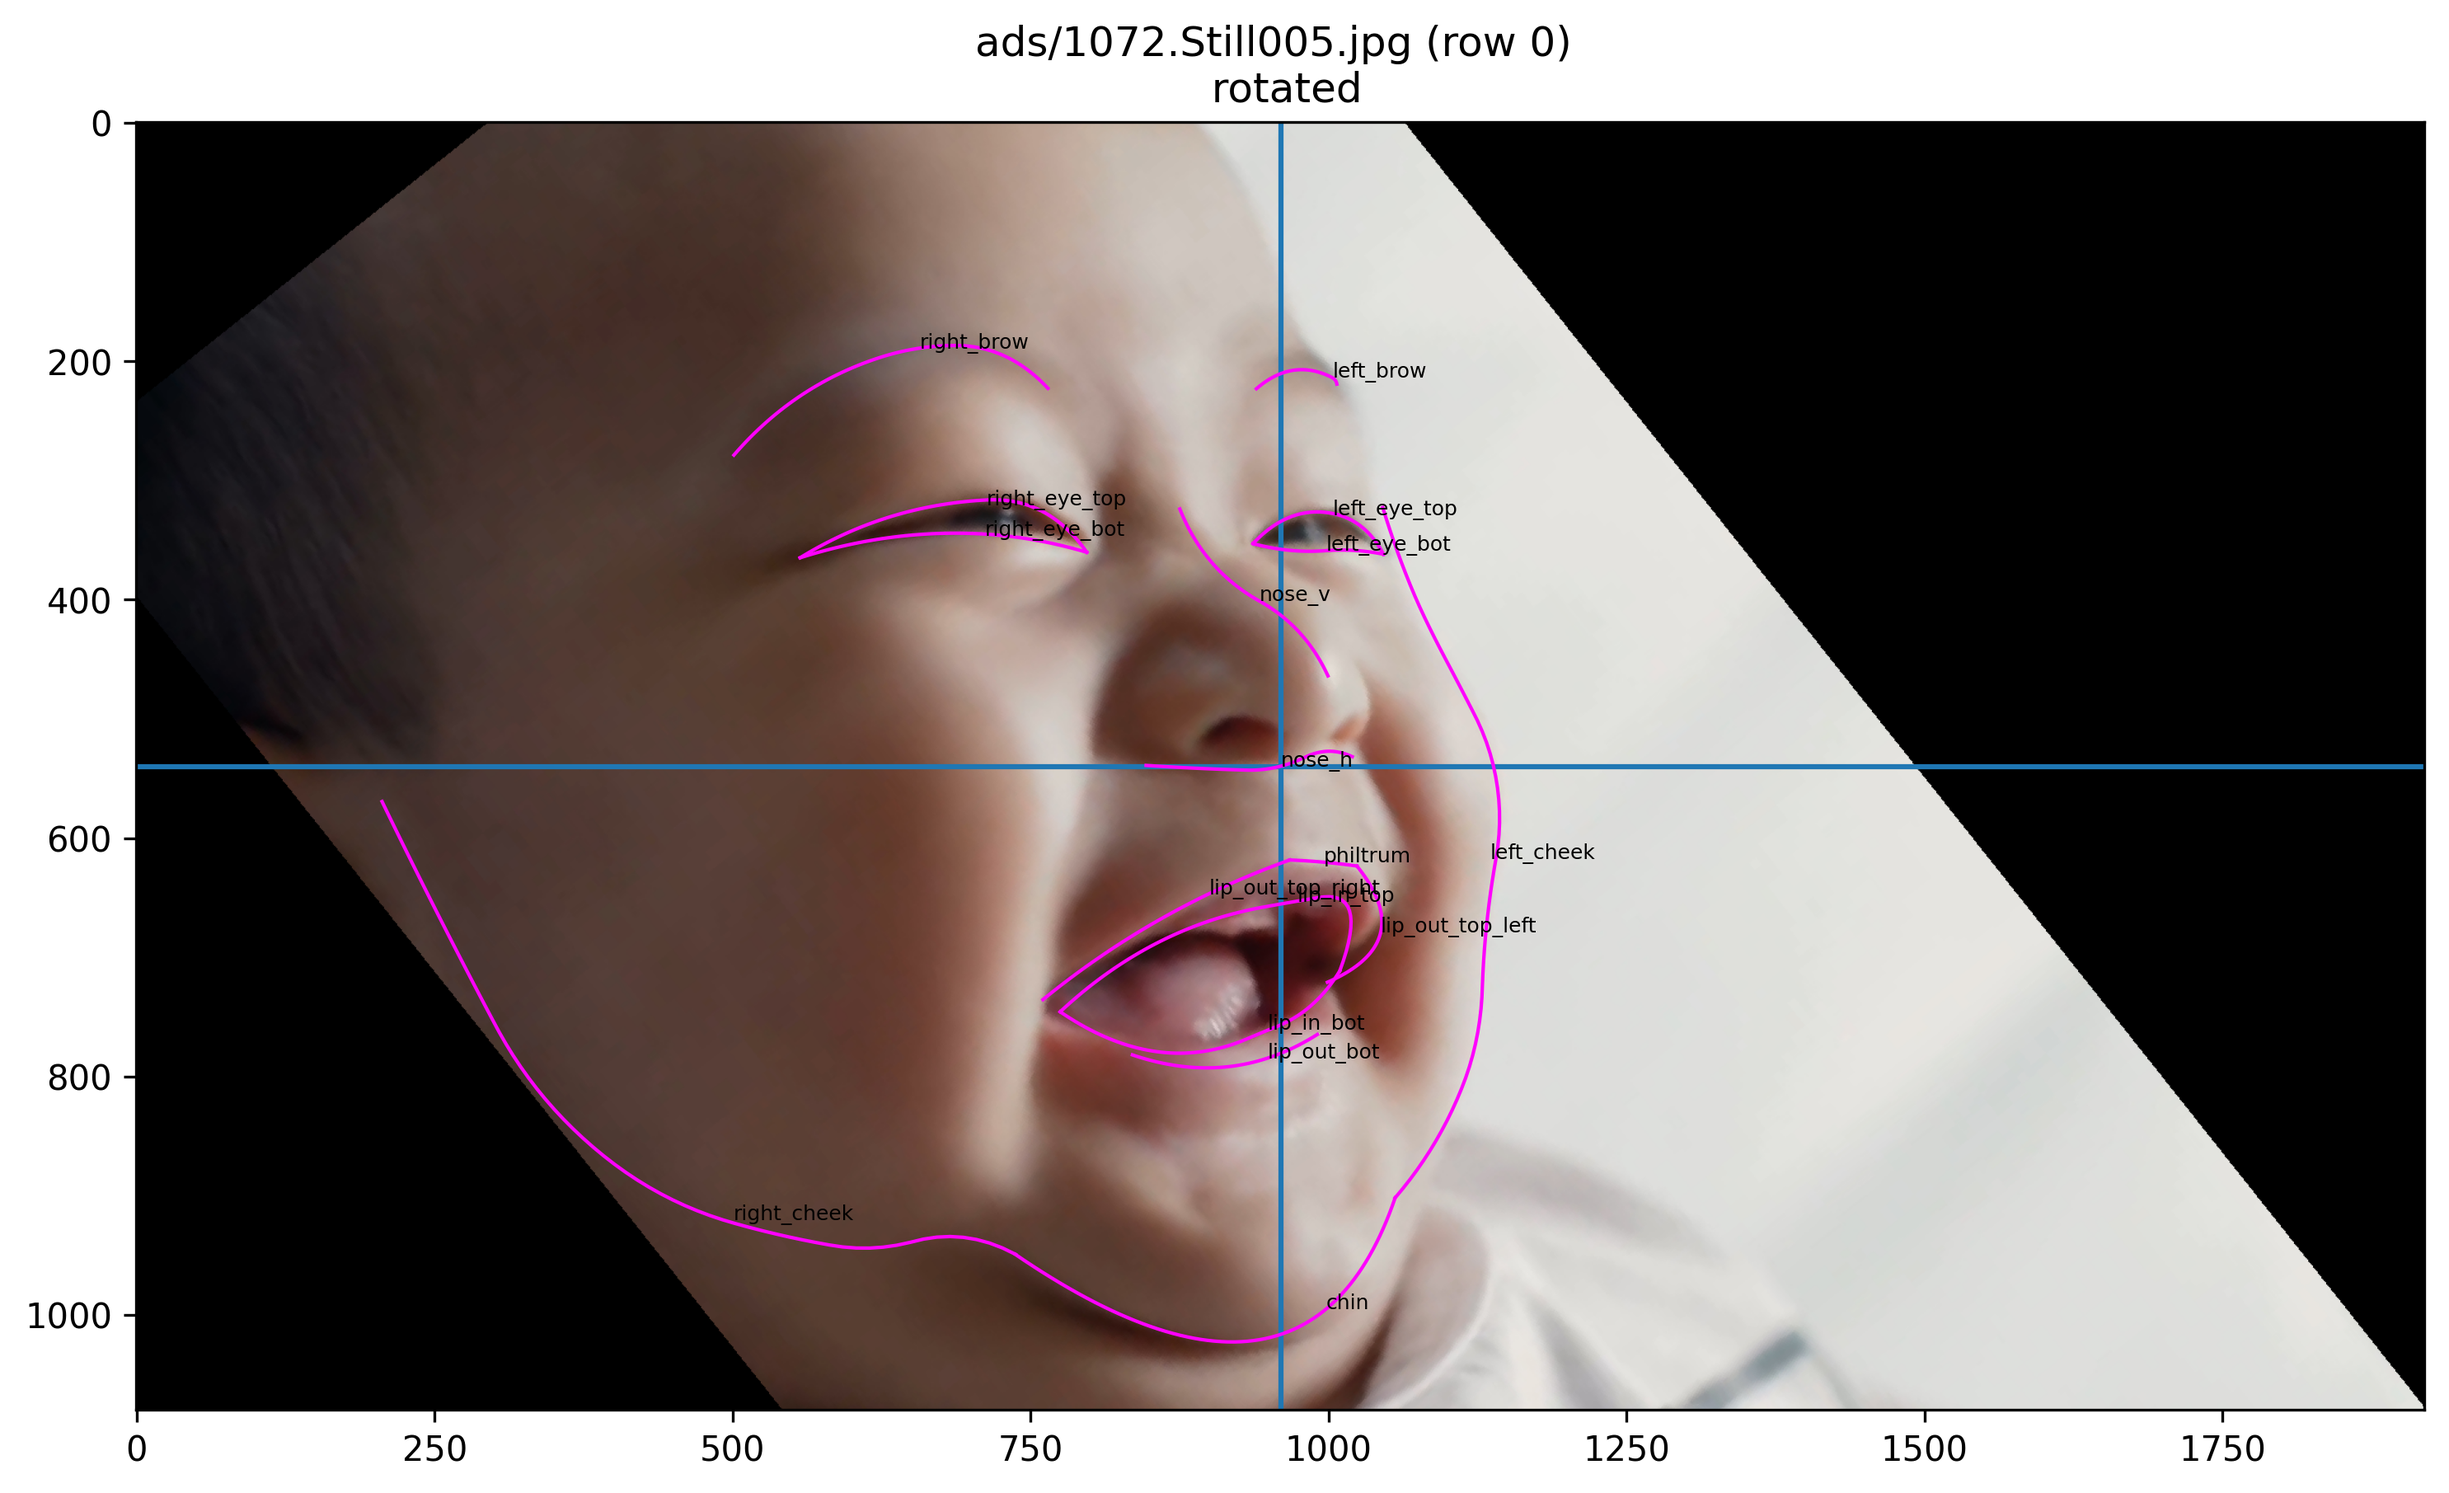
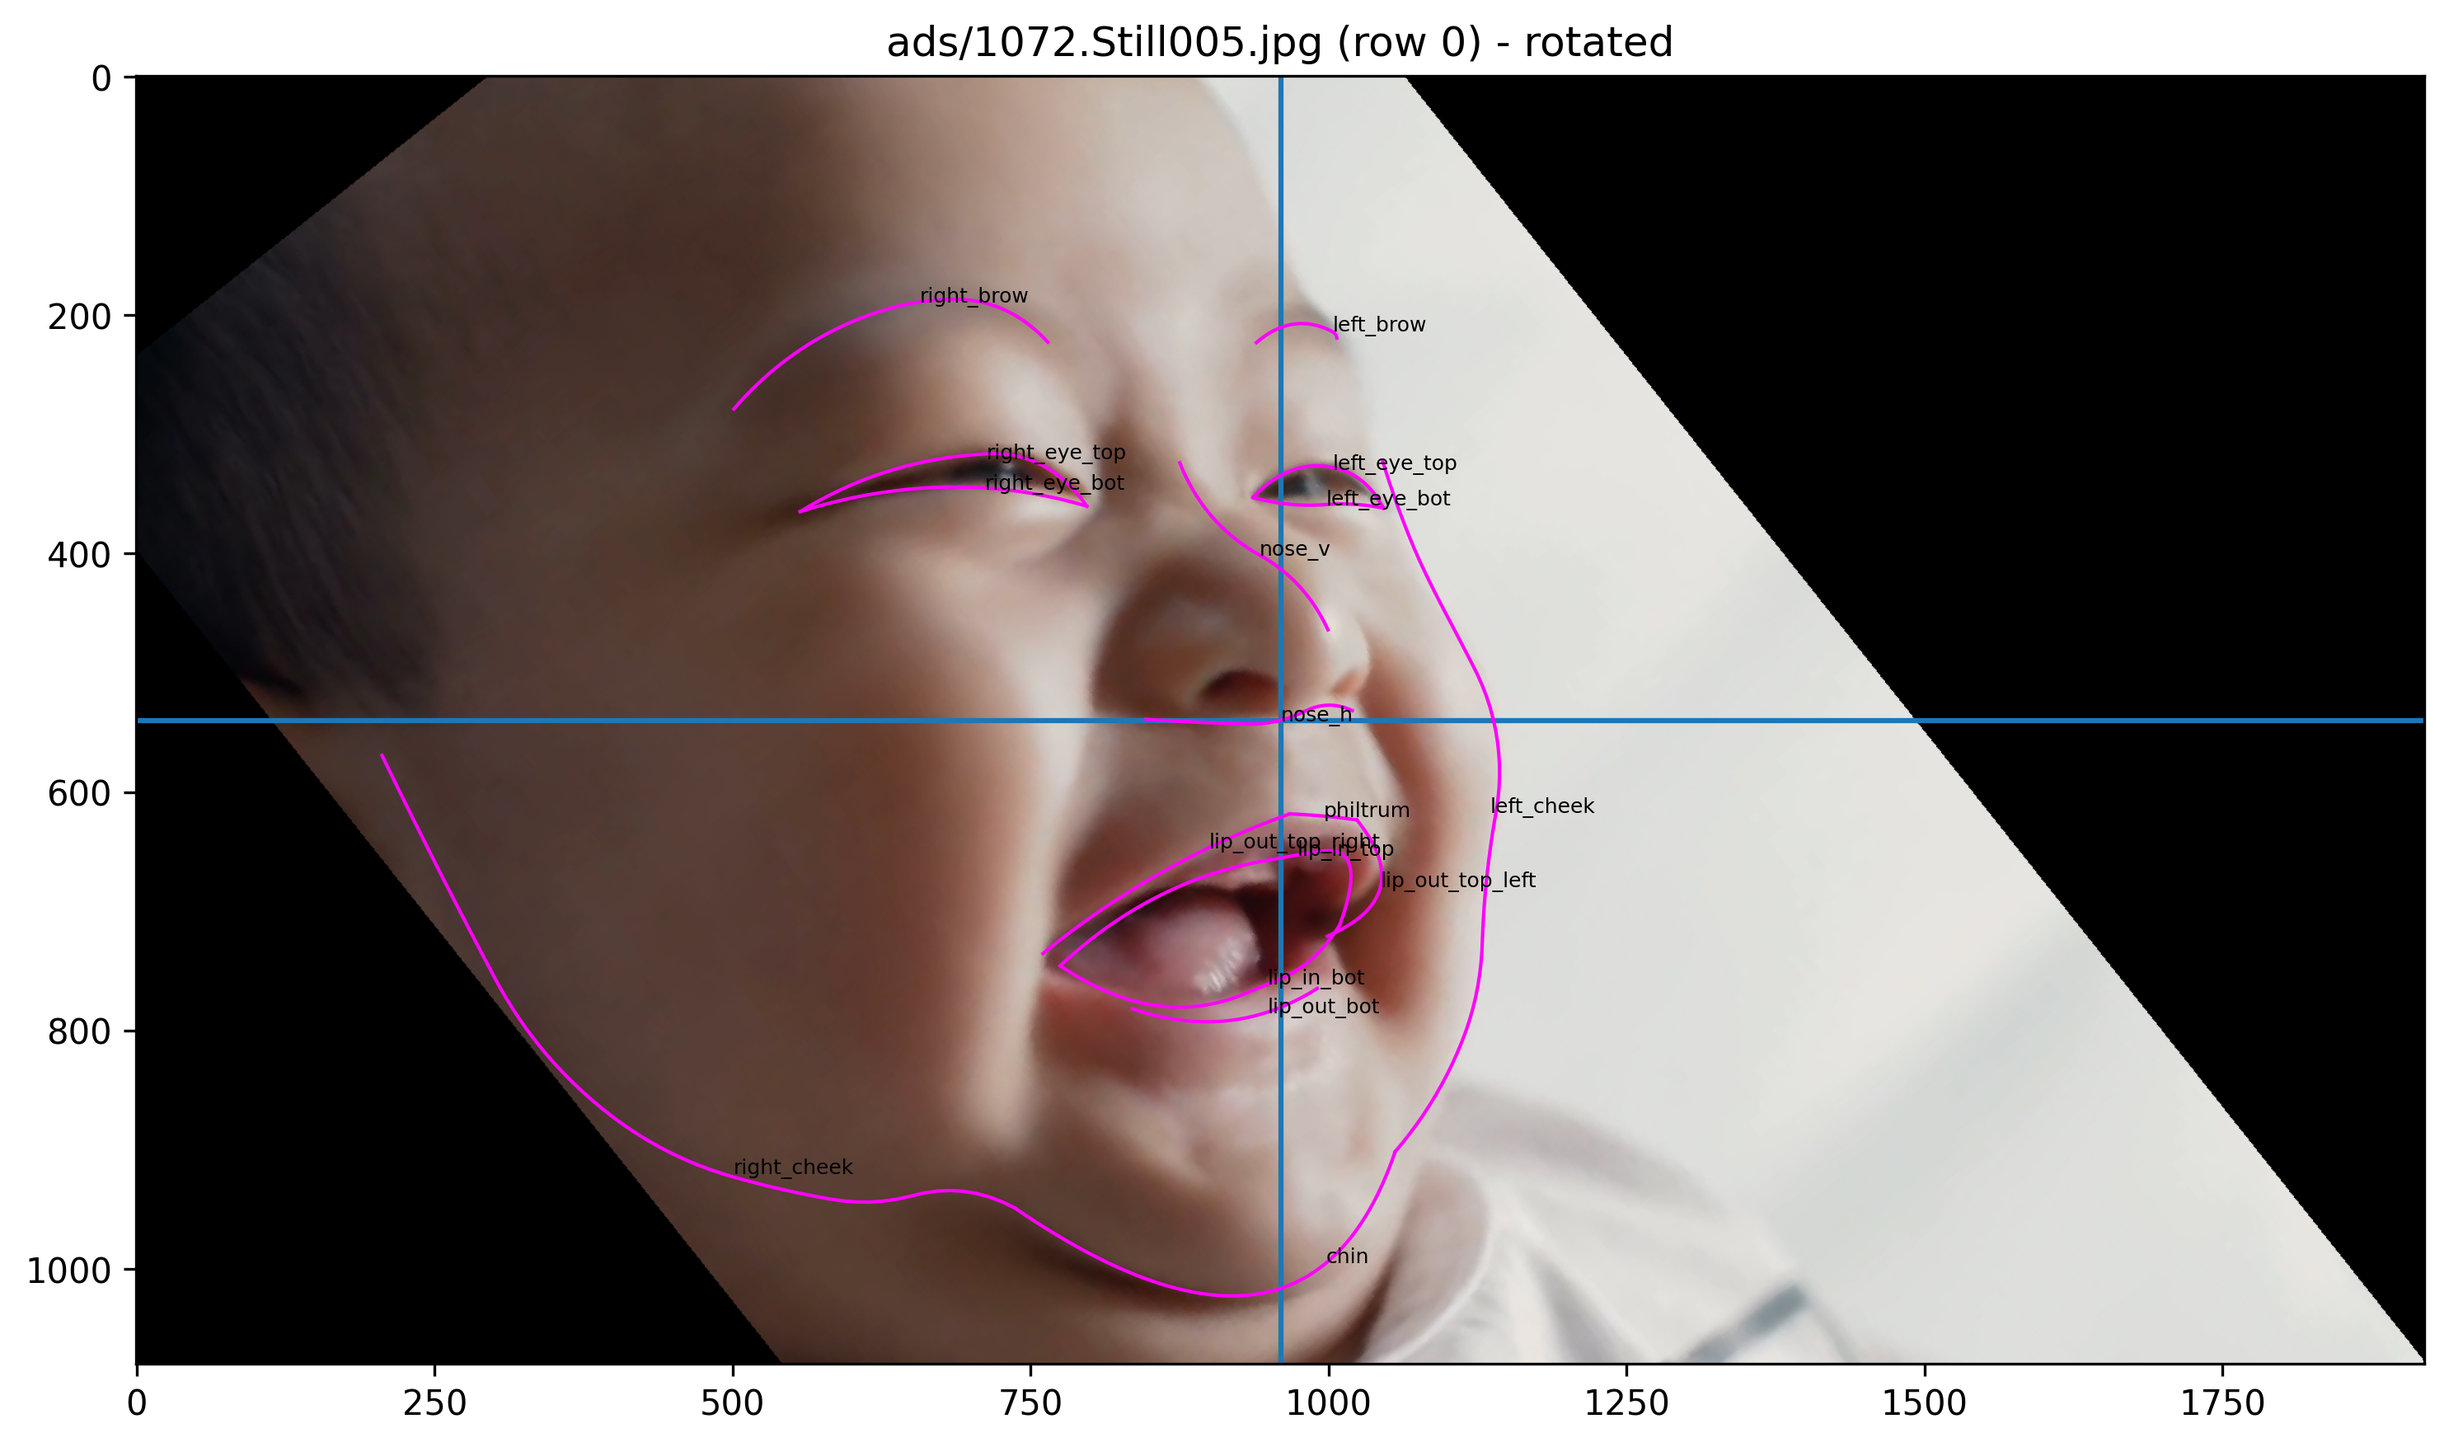
more cleanup/documentation

diff --git a/src/util/plot.py b/src/util/plot.py
@@ -41,6 +41,7 @@ def fix_axes(X,Y,ax,flip_y=True):
     
 def plot_image(
         anno,
+        subtitle=None,
         scatter_points=None,
         ref_point=None,
         annotate=None,
@@ -55,6 +56,8 @@ def plot_image(
     ----------
     anno : AnnoImg
         The image to render.
+    subtitle : list of str, optional
+        Additional lines of text below the title. The default is None.
     scatter_points : list of int
         Landmark indices to print (excldues unlisted landmarks).
         The default is None.
@@ -72,7 +75,7 @@ def plot_image(
         True to include blue crosshairs at image center.
         The default is False.
     grayscale : bool
-        True to convert image to grayscale (using default colormap'viridis').
+        True to convert image to grayscale (using default colormap 'viridis').
         The default is False.
     skip_img : bool
         True to skip raw image data. The default is False.
@@ -88,8 +91,10 @@ def plot_image(
     image_set = anno.image_set
     filename = anno.filename
     desc = f' (row {anno.row_id})' if anno.row_id is not None else ''
-    if len(anno.desc):
-        desc = ' \n '.join([desc, *anno.desc])
+    if anno.desc:
+        desc += f' - {", ".join(anno.desc)}'
+    if subtitle:
+        desc = ' \n '.join([desc, *subtitle])
     title = f'{image_set}/{filename}' + desc
     X = anno.get_x()
     Y = anno.get_y()

diff --git a/src/plot_roll_yaw.py b/src/plot_roll_yaw.py
@@ -9,15 +9,11 @@ Created on Sun Nov 13 20:08:59 2022
 import matplotlib.pyplot as plt
 
 # project
-from util.local_cache import cache
+from util import meta_cache
 from util.pre import to_deg
 
-savefig = False
 
-df = cache.get_meta('decorated')
-
-
-def plot(use_abs=False,savefig=False):
+def plot(df, use_abs=False, save_fig=False):
     label_pre = 'absolute ' if use_abs else ''
     col_suff = '_abs' if use_abs else ''
     tilt = df['tilted'] == 1
@@ -40,7 +36,7 @@ def plot(use_abs=False,savefig=False):
             # c=color,
             marker='x' if desc == 'both' else 'o',
             label=desc,
-            edgecolors=color,
+            edgecolors=None if desc == 'both' else color,
             facecolors='none' if desc == 'neither' else color,
             # marker='$O$' if desc == 'neither' else 'o',
         )
@@ -61,14 +57,16 @@ def plot(use_abs=False,savefig=False):
         borderaxespad=0.,
     )
     plt.tight_layout()
-    if savefig:
+    if save_fig:
         plt.savefig(f'figs/roll_yaw{col_suff}.png', dpi=300, bbox_inches='tight')
     plt.show()
 
 
 def main():
-    plot(savefig=savefig)
-    plot(use_abs=True,savefig=savefig)
+    save_fig = False
+    df = meta_cache.get_meta('baby')
+    plot(df, save_fig=save_fig)
+    plot(df, use_abs=True, save_fig=save_fig)
 
 
 if __name__ == '__main__':

diff --git a/src/logreg_4_pred.py b/src/logreg_4_pred.py
@@ -120,12 +120,13 @@ for pp in [
     test_df = pd.DataFrame(X_test, columns=pp)
     test_df[target] = y_test
     test_df[f'{target}_hat'] = y_hat
+    scatter_cols = ['boxratio', 'yaw_abs']
     scatter(
         f'Logistic Regression - baby vs {", ".join(pp)} \n '
             f'score: {score:.3f}',
-        f'scatter_boxratio_vs_yaw.png',
+        f'scatter_{" vs ".join(scatter_cols)}.png',
         tmp, # test_df,
-        ['boxratio', 'yaw_abs'],
+        scatter_cols,
         target,
         target_name='Baby',
         alt_name='Adult',

diff --git a/src/big_yaw.py b/src/big_yaw.py
@@ -21,11 +21,11 @@ for i in range(10):
     row = unlabeled.iloc[i]
     row_id = unlabeled.index[i]
     anno = meta_cache.get_image(row_id, baby=True)
-    anno.desc = [
-        f'{to_deg * row["yaw_abs"]:.2f} degrees estimated yaw',
-        'not labeled "tilted" nor "turned"',
-    ]
     plot_image(
         anno,
         save_fig=save_fig,
+        subtitle=[
+            f'{to_deg * row["yaw_abs"]:.2f} degrees estimated yaw',
+            'not labeled "tilted" nor "turned"',
+        ],
     )

diff --git a/src/angle_labels_logreg.py b/src/angle_labels_logreg.py
@@ -15,8 +15,6 @@ from sklearn.model_selection import train_test_split
 # project
 from util import meta_cache
 
-df = meta_cache.get_meta('baby')
-
 
 def eg_logreg(df, pred, target):
     X = df[pred]
@@ -51,6 +49,8 @@ def eg_logreg(df, pred, target):
     dummy_score = accuracy_score(y_test, dummy_y_hat)
     print(f'\tdummy score: {dummy_score:.3f}')
 
+
+df = meta_cache.get_meta('baby')
 
 # test logistic regression with random predictor
 # tmp = df.copy()

diff --git a/src/util/meta_cache.py b/src/util/meta_cache.py
@@ -124,7 +124,7 @@ class MetaCache:
         (in the data directory) the image metadata from the adult and baby
         datasets and renames all landmark columns to standard names:
          * baby "ground truth" landmarks: 'gt-{dim}{index}' -> '{dim}{index}
-         * adult "original" landmakrs: 'original_{index}_{dim}' -> '{dim}{index}
+         * adult "original" landmarks: 'original_{index}_{dim}' -> '{dim}{index}
 
         Returns
         -------

diff --git a/preprocessing.md b/preprocessing.md
@@ -106,6 +106,11 @@ The classes are more linearly seperable when taking absolute values:
 
 <img src="figs/roll_yaw_abs.png" width=600>
 
+You can reproduce these plots with the following `Makefile` target:
+```
+make roll_yaw
+```
+
 We applied a simple Logistic Regression model to confirm the relationships between estimated angles and given labels:
 ```
 looking at "tilted" per ['yaw_abs'] (n: 410; p: 1)
